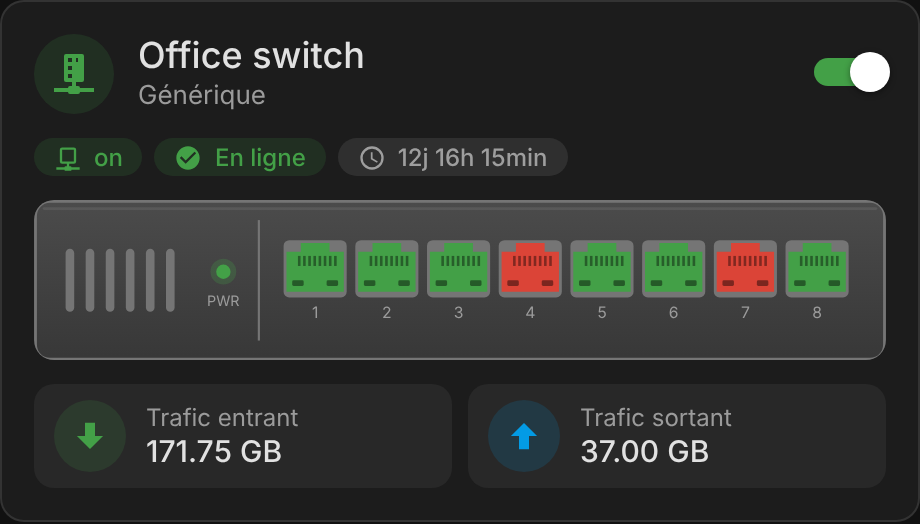
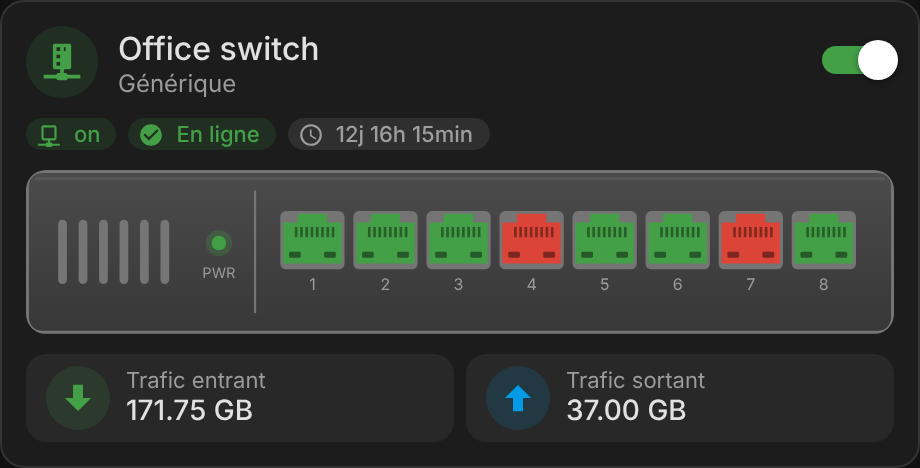
Compact layout with the same information (1.2.0) (#5)
Claude-Session: https://claude.ai/code/session_01FyVHJkuQopwM66ytqwsrgB

diff --git a/src/ha-switch-card.js b/src/ha-switch-card.js
@@ -443,19 +443,19 @@ class HaSwitchCard extends HTMLElement {
         --hs-body-bottom: color-mix(in srgb, var(--primary-text-color, #212121) 14%, var(--card-background-color, #fff));
         --hs-dark: color-mix(in srgb, var(--primary-text-color, #212121) 45%, var(--card-background-color, #fff));
       }
-      ha-card { padding: 16px; display: flex; flex-direction: column; gap: 12px; }
+      ha-card { padding: 12px; display: flex; flex-direction: column; gap: 10px; }
       [data-entity], [data-url] { cursor: pointer; }
-      .header { display: grid; grid-template-columns: auto 1fr auto; align-items: center; gap: 12px; }
+      .header { display: grid; grid-template-columns: auto 1fr auto; align-items: center; gap: 10px; }
       .ic {
-        --size: 36px;
+        --size: 32px;
         width: var(--size); height: var(--size); border-radius: 50%;
         display: flex; align-items: center; justify-content: center; flex: none;
         color: var(--c); background: color-mix(in srgb, var(--c) 15%, transparent);
       }
-      .ic.big { --size: 40px; --mdc-icon-size: 24px; }
+      .ic.big { --size: 36px; --mdc-icon-size: 22px; }
       .titles { min-width: 0; }
-      .name { font-size: 18px; font-weight: 500; line-height: 1.25; color: var(--primary-text-color); white-space: nowrap; overflow: hidden; text-overflow: ellipsis; }
-      .sub { font-size: 13px; color: var(--secondary-text-color); white-space: nowrap; overflow: hidden; text-overflow: ellipsis; }
+      .name { font-size: 16px; font-weight: 500; line-height: 1.25; color: var(--primary-text-color); white-space: nowrap; overflow: hidden; text-overflow: ellipsis; }
+      .sub { font-size: 12px; color: var(--secondary-text-color); white-space: nowrap; overflow: hidden; text-overflow: ellipsis; }
       ha-switch {
         --switch-checked-color: var(--success-color, #43a047);
         --switch-checked-button-color: #fff;
@@ -471,11 +471,12 @@ class HaSwitchCard extends HTMLElement {
       }
       .chips { display: flex; flex-wrap: wrap; gap: 6px; }
       .chip {
-        display: inline-flex; align-items: center; gap: 6px; padding: 2px 10px;
-        border-radius: 12px; font-size: 12px; font-weight: 500;
+        display: inline-flex; align-items: center; gap: 6px; padding: 1px 8px 1px 5px;
+        border-radius: 12px; font-size: 11px; font-weight: 500;
         background: color-mix(in srgb, var(--c) 15%, transparent); color: var(--c);
         --mdc-icon-size: 14px;
       }
+      .chip ha-icon { --mdc-icon-size: 13px; }
       .device { position: relative; width: 100%; border-radius: 10px; overflow: hidden; }
       .device img { width: 100%; display: block; }
       .device svg { width: 100%; height: auto; display: block; }
@@ -489,13 +490,13 @@ class HaSwitchCard extends HTMLElement {
       .ports.model .port { position: absolute; transform: translate(-50%, -50%); }
       .port { width: 27px; line-height: 0; }
       .port svg { width: 100%; height: auto; }
-      .traffic { display: grid; grid-template-columns: repeat(auto-fit, minmax(140px, 1fr)); gap: 8px; }
-      .tile { display: flex; align-items: center; gap: 10px; padding: 8px 10px; border-radius: 10px; min-width: 0;
+      .traffic { display: grid; grid-template-columns: repeat(auto-fit, minmax(140px, 1fr)); gap: 6px; }
+      .tile { display: flex; align-items: center; gap: 8px; padding: 6px 10px; border-radius: 10px; min-width: 0;
               background: var(--secondary-background-color, rgba(127,127,127,.08)); }
       .tile .ic { --mdc-icon-size: 20px; }
       .tile .txt { min-width: 0; }
-      .tile .k { font-size: 12px; color: var(--secondary-text-color); white-space: nowrap; overflow: hidden; text-overflow: ellipsis; }
-      .tile .v { font-size: 15px; font-weight: 500; color: var(--primary-text-color); }
+      .tile .k { font-size: 11px; color: var(--secondary-text-color); white-space: nowrap; overflow: hidden; text-overflow: ellipsis; }
+      .tile .v { font-size: 14px; font-weight: 500; color: var(--primary-text-color); }
     `;
   }
 }

diff --git a/CHANGELOG.md b/CHANGELOG.md
@@ -1,5 +1,11 @@
 # Changelog
 
+## 1.2.0
+
+### Changes
+- More compact layout with the same information, like the other ha-* cards: 12 px card padding, 36 px header icon, 16 px name and 12 px subtitle, 11 px pills, tighter tiles and sections.
+- Lower traffic tiles; the switch front keeps its size.
+
 ## 1.1.3
 
 ### Changes
